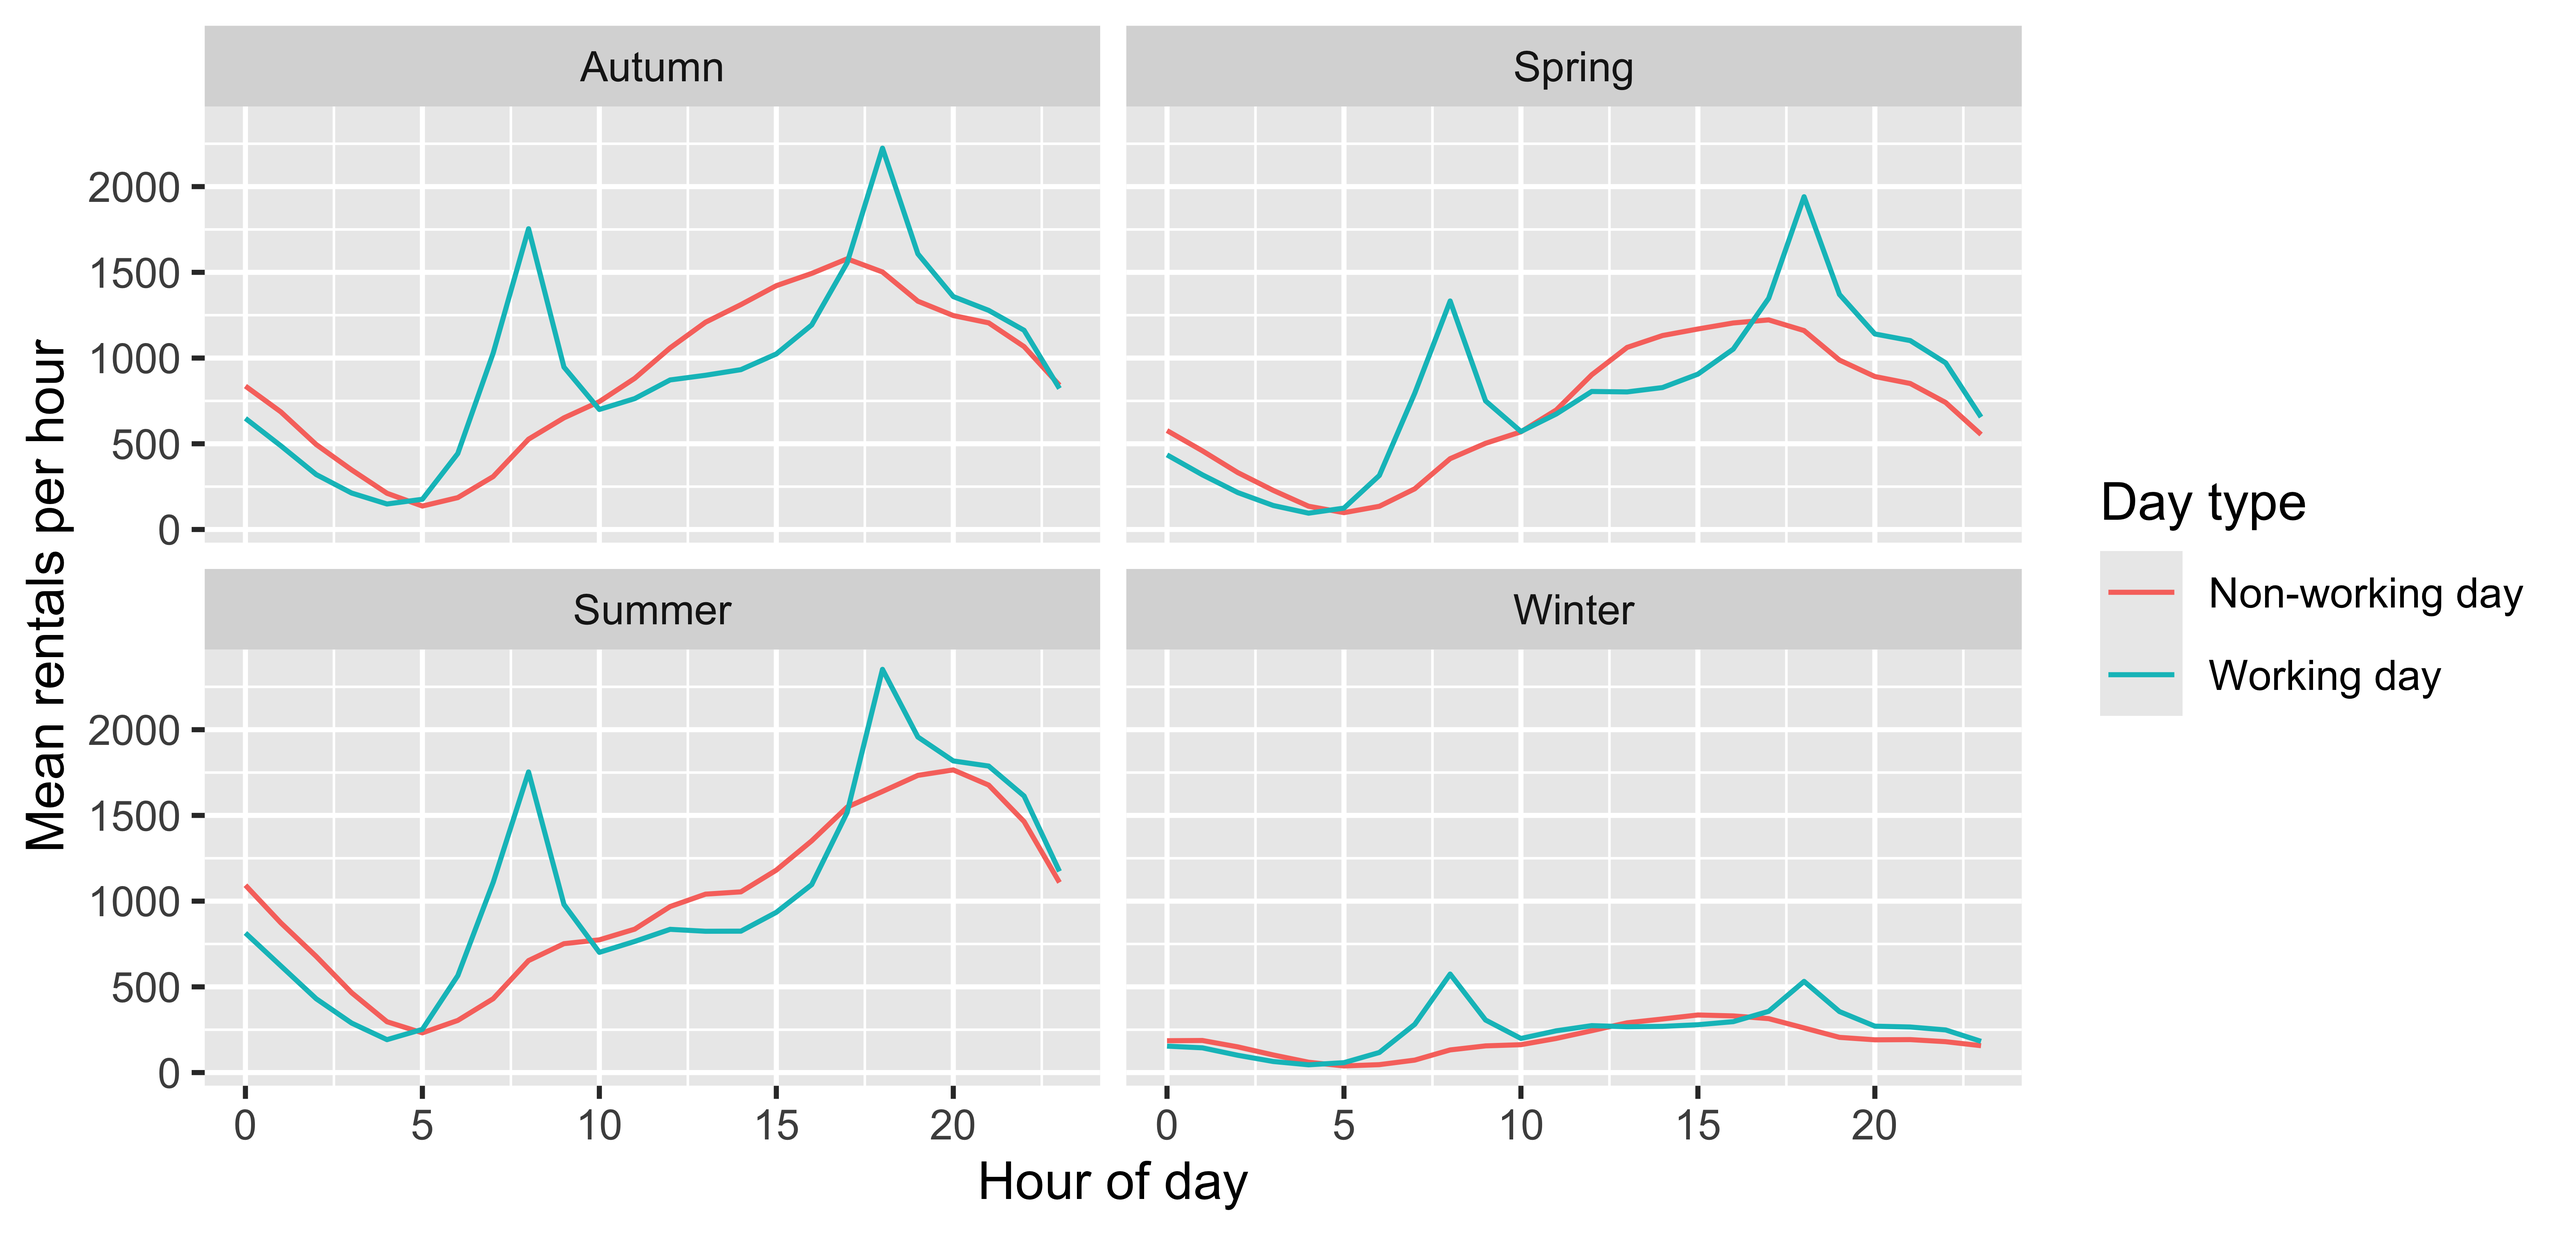
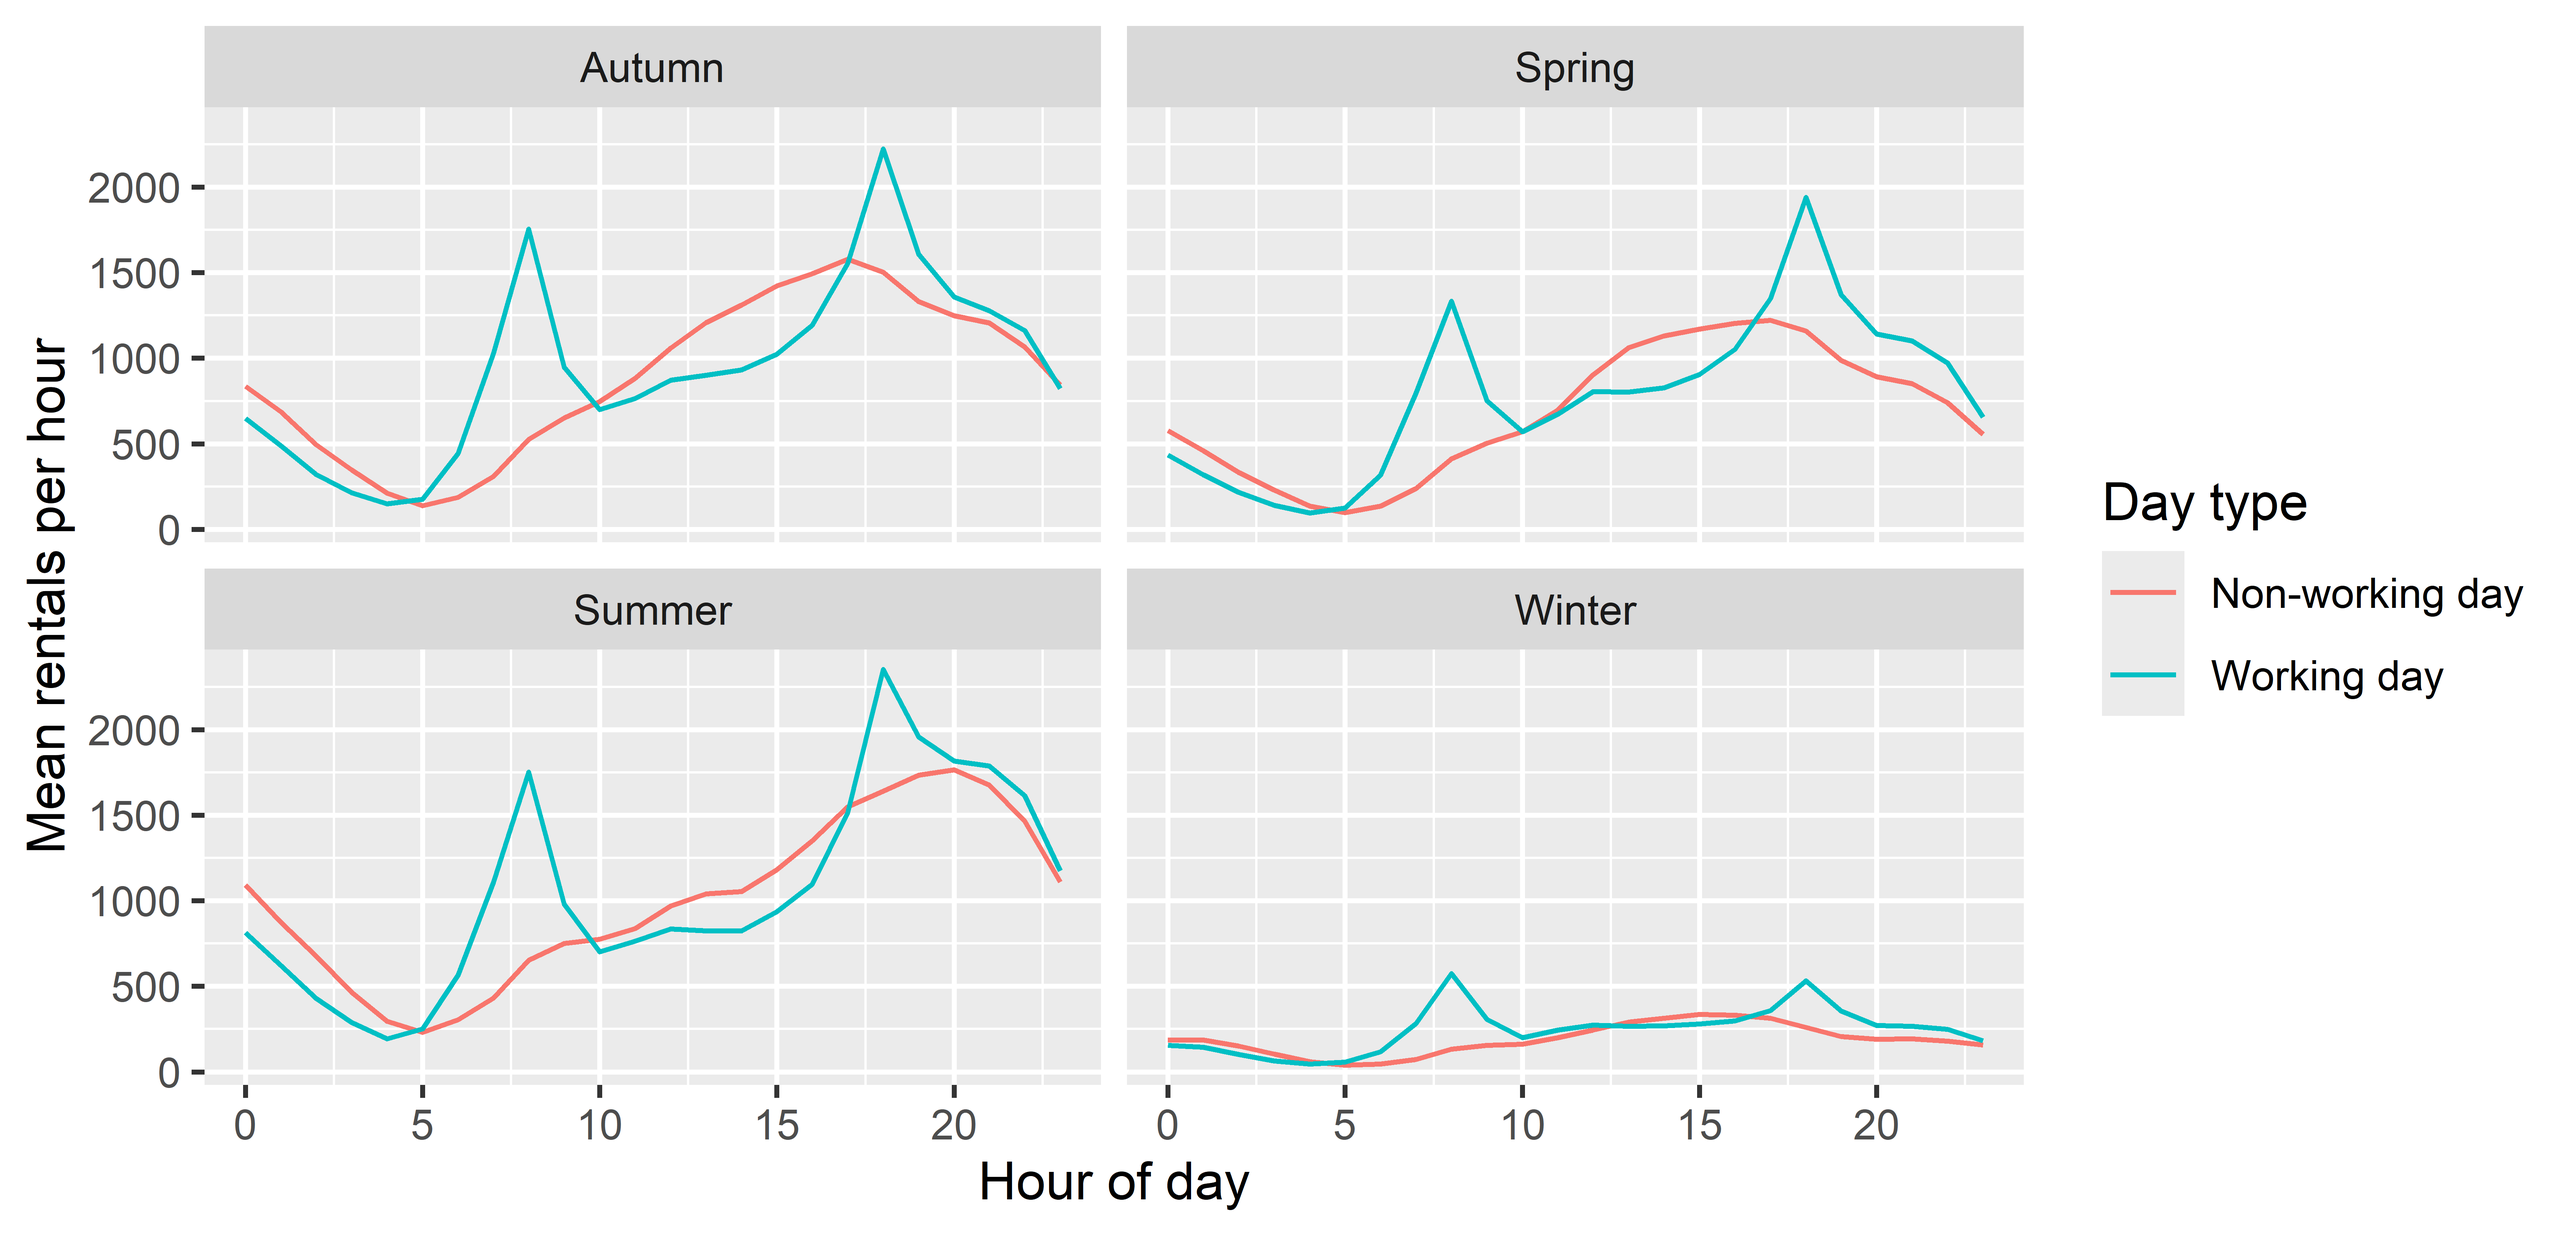
change username

diff --git a/presentation.html b/presentation.html
@@ -3,7 +3,7 @@
   <head>
     <title>Seoul Bike Rentals Across the Seasons</title>
     <meta charset="utf-8" />
-    <meta name="author" content="Team name   Names of team members" />
+    <meta name="author" content="Kang Shen: Jerry Gu, Roger Wang, Qingxin Geng, Tianao Chen &amp; Wenbo Tang" />
     <meta name="date" content="2026-11-25" />
     <script src="libs/header-attrs-2.32/header-attrs.js"></script>
     <link rel="stylesheet" href="xaringan-themer.css" type="text/css" />
@@ -19,7 +19,7 @@ class: center, middle, inverse, title-slide
 ## Hourly patterns on working and non-working days
 ]
 .author[
-### Team name <br> Names of team members
+### Kang Shen: Jerry Gu, Roger Wang, Qingxin Geng, Tianao Chen &amp; Wenbo Tang
 ]
 .institute[
 ### University of Edinburgh
